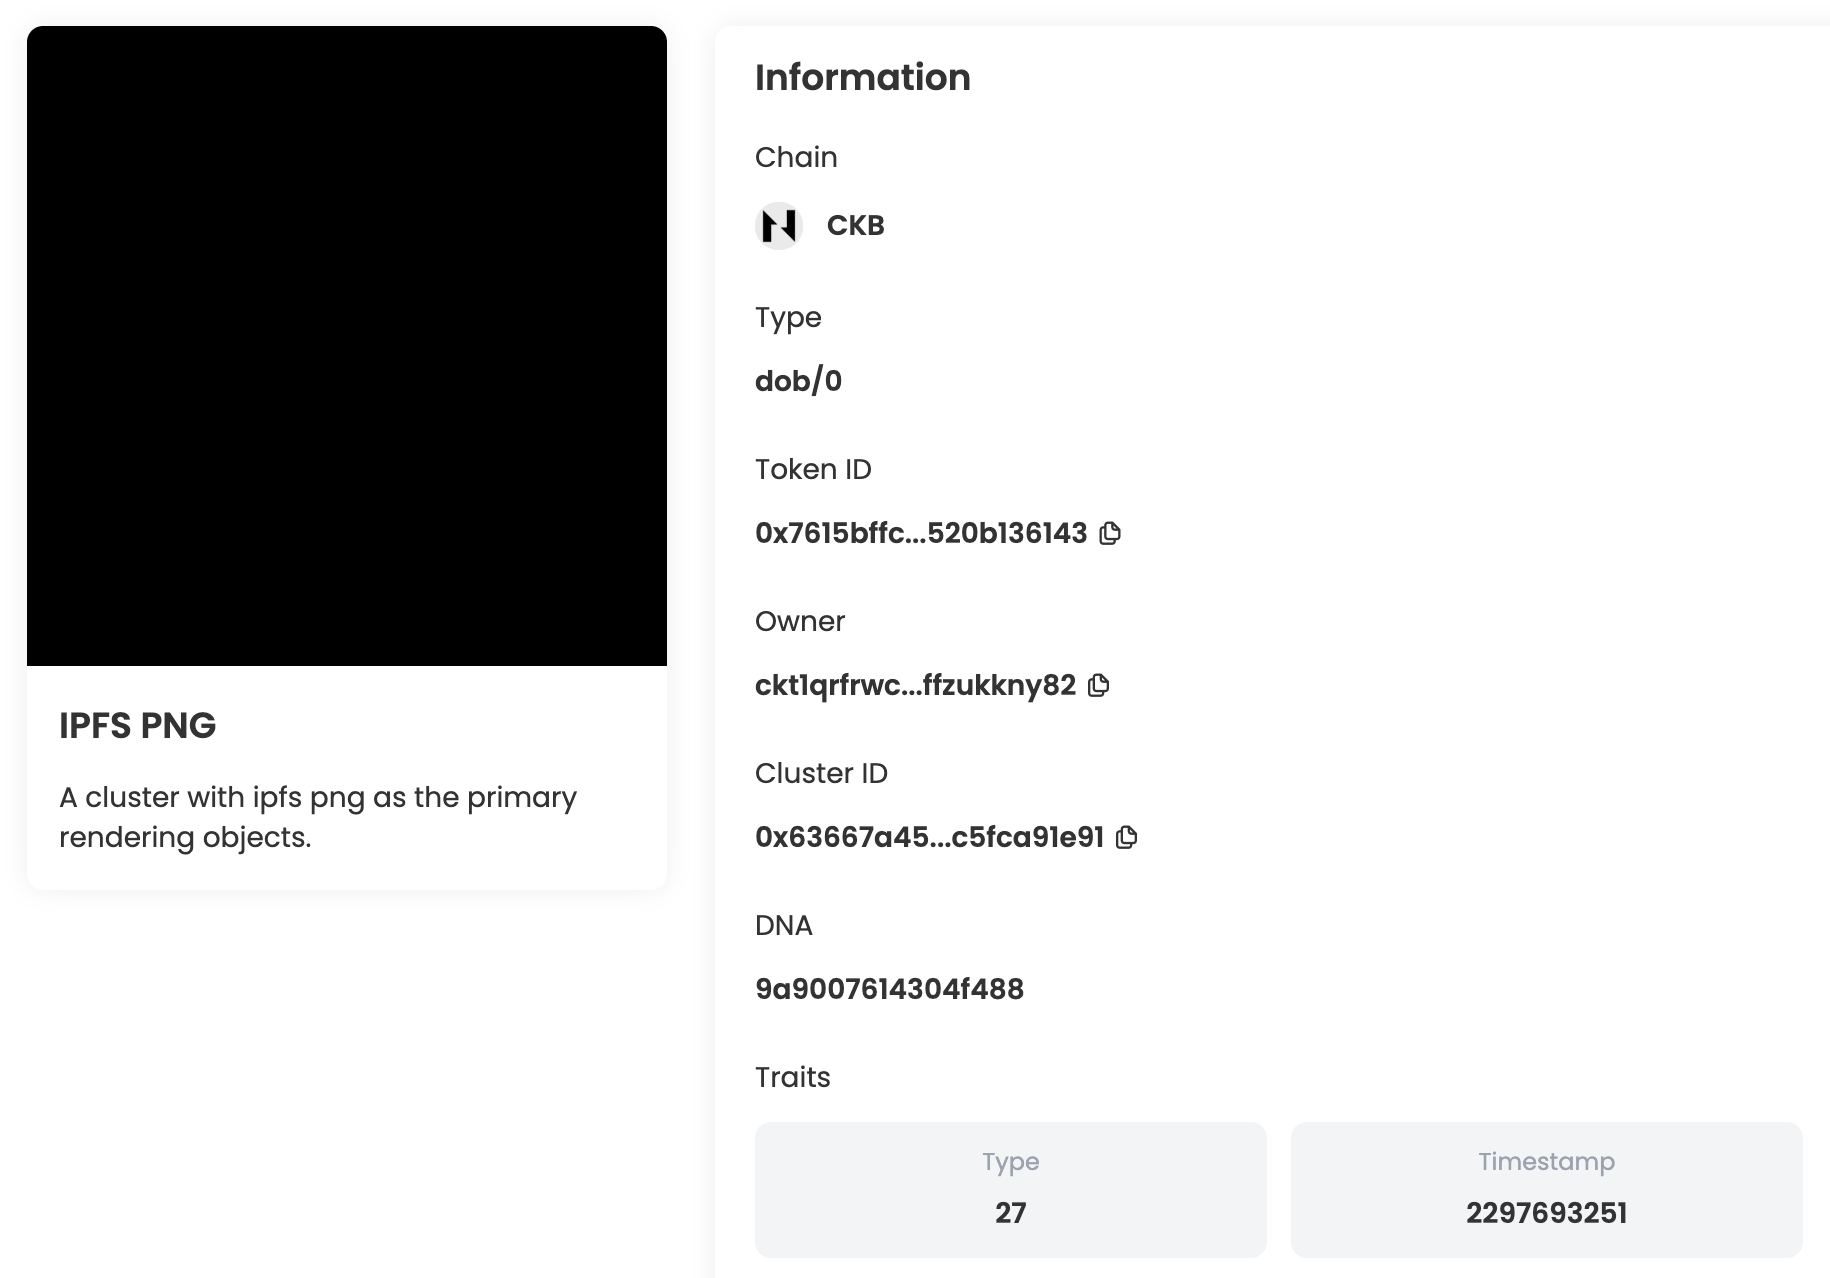
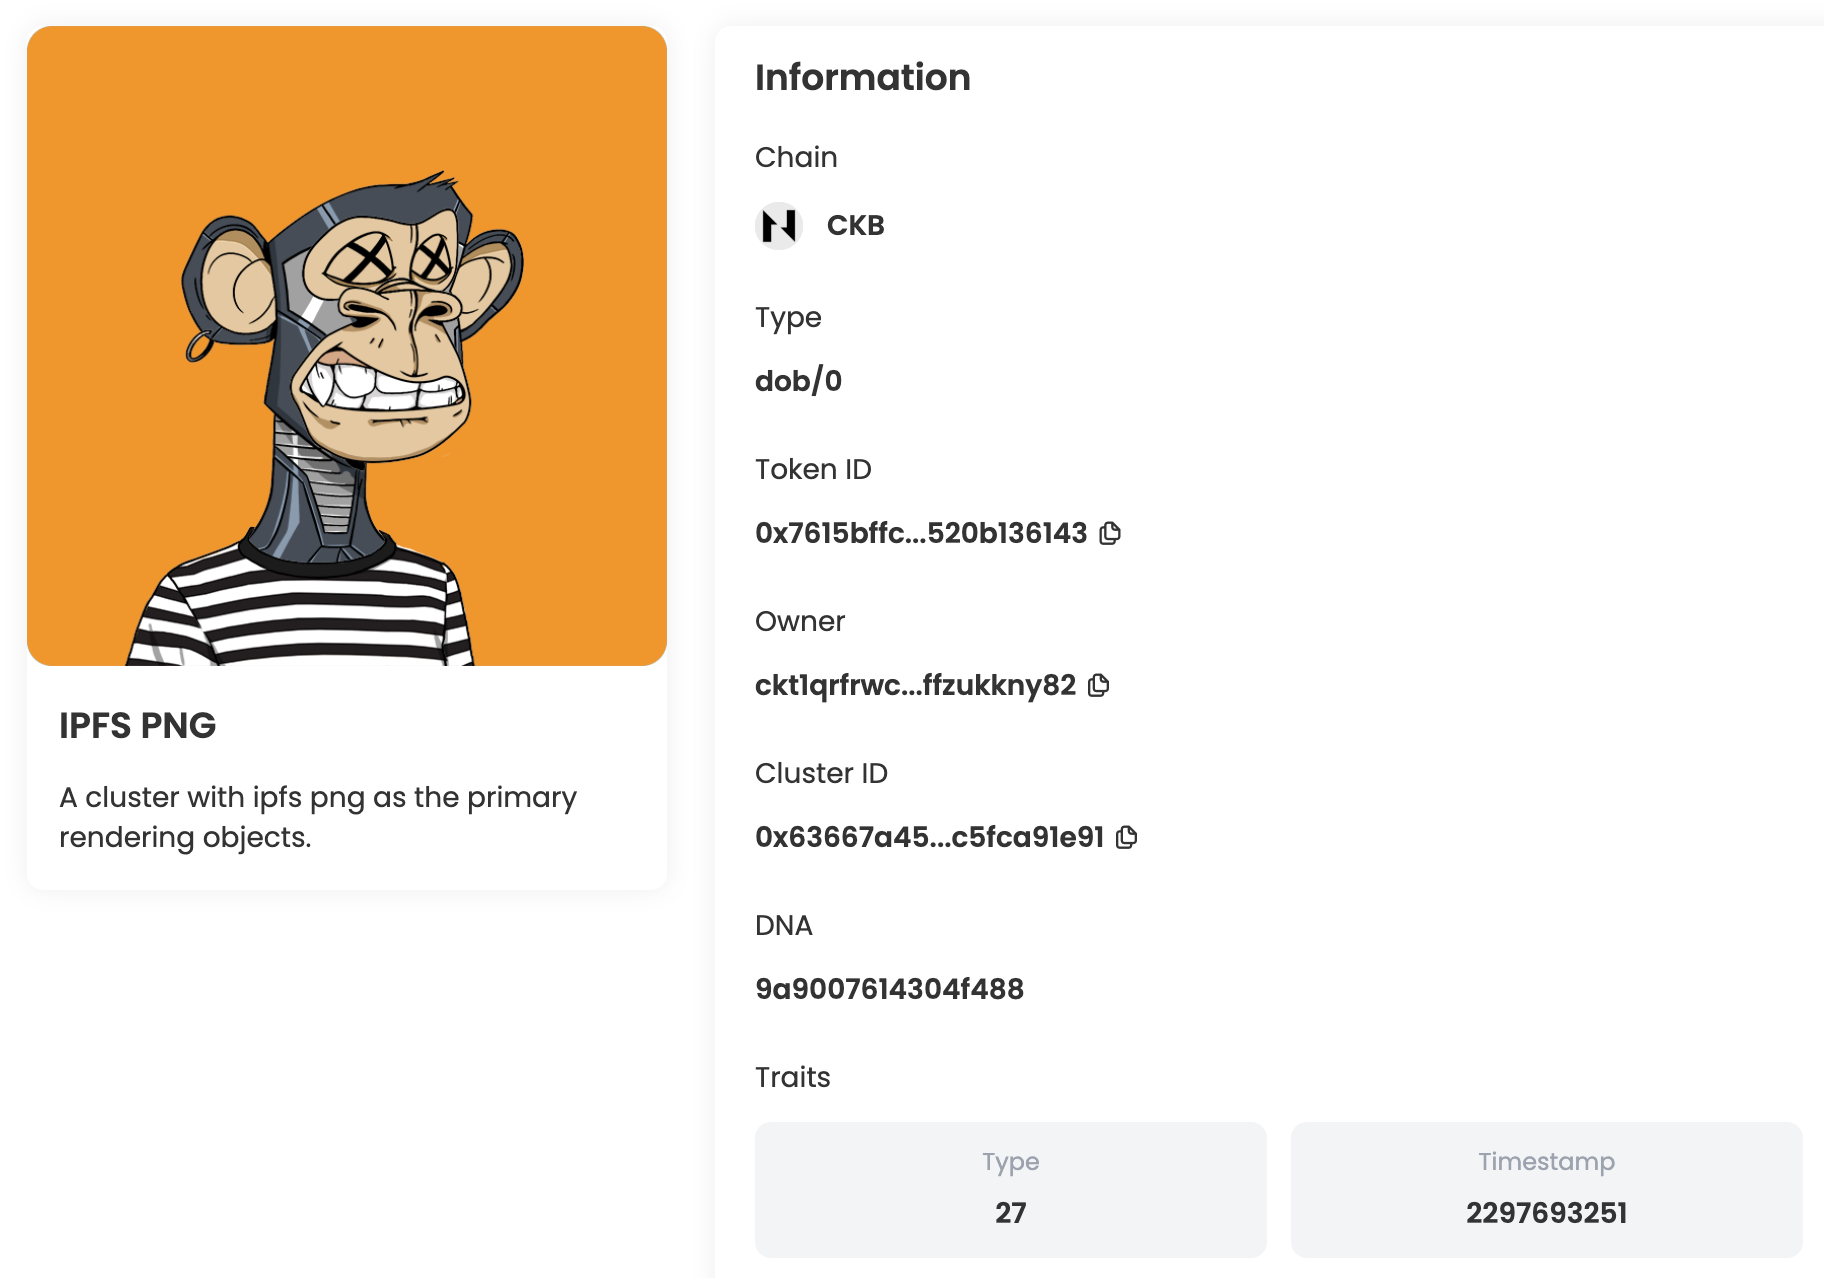
feat: add btcfs-i1-png dob0 example

diff --git a/examples/dob0/7.btcfs-i1-png.ts b/examples/dob0/7.btcfs-i1-png.ts
@@ -1,0 +1,195 @@
+import { ccc } from "@ckb-ccc/ccc";
+import { client, signer } from "@ckb-ccc/playground";
+
+function getExplorerTxUrl(txHash: string) {
+  const isMainnet = client.addressPrefix === 'ckb';
+  const baseUrl = isMainnet ? 'https://explorer.nervos.org' : 'https://testnet.explorer.nervos.org';
+
+  return `${baseUrl}/transaction/${txHash}`
+}
+
+function generateSimpleDNA(length: number): string {
+  return Array.from(
+    { length }, 
+    () => Math.floor(Math.random() * 16).toString(16)
+  ).join('');
+}
+
+/**
+ * Generate cluster description
+ */
+function generateClusterDescriptionUnderDobProtocol() {
+ 
+  const clusterDescription = "A cluster with btcfs i1 png as the primary rendering objects.";
+  
+  const dob0Pattern: ccc.spore.dob.PatternElementDob0[] = [
+    {
+      traitName: "prev.type",
+      dobType: "String",
+      dnaOffset: 0,
+      dnaLength: 1,
+      patternType: "options",
+      traitArgs: ['image'],
+    },
+    {
+      traitName: "prev.bg",
+      dobType: "String",
+      dnaOffset: 1,
+      dnaLength: 1,
+      patternType: "options",
+      traitArgs:[
+       "btcfs://3bb2e97555eb1c54f379bcac51a201a18882188fb4c5e7b3aeed566088172f01i1",
+      ],
+    },
+    {
+      traitName: "prev.bgcolor",
+      dobType: "String",
+      dnaOffset: 2,
+      dnaLength: 1,
+      patternType: "options",
+      traitArgs:[
+       "#C1C2C5",
+      ],
+    },
+    {
+      traitName: "Type",
+      dobType: "Number",
+      dnaOffset: 3,
+      dnaLength: 1,
+      patternType: "range",
+      traitArgs: [10, 50],
+    },
+    {
+      traitName: "Timestamp",
+      dobType: "Number",
+      dnaOffset: 4,
+      dnaLength: 4,
+      patternType: "rawNumber",
+    },
+  ];
+
+  const dob0: ccc.spore.dob.Dob0 = {
+    description: clusterDescription,
+    dob: {
+      ver: 0,
+      decoder: ccc.spore.dob.getDecoder(client, "dob0"),
+      pattern: dob0Pattern,
+    },
+  };
+
+  return ccc.spore.dob.encodeClusterDescriptionForDob0(dob0);
+}
+
+/**
+ * create cluster
+ */
+const { tx: clusterTx, id: clusterId } = await ccc.spore.createSporeCluster({
+  signer,
+  data: {
+    name: "BTCFS i1 PNG",
+    description: generateClusterDescriptionUnderDobProtocol(),
+  },
+});
+await clusterTx.completeFeeBy(signer, 2000n);
+const clusterTxHash = await signer.sendTransaction(clusterTx);
+console.log("Create cluster tx sent:", clusterTxHash, `Cluster ID: ${clusterId}`);
+await signer.client.waitTransaction(clusterTxHash);
+console.log("Create cluster tx committed:", getExplorerTxUrl(clusterTxHash), `Cluster ID: ${clusterId}`);
+
+/**
+ * create spore
+ */
[1 lines of base64/hex data omitted]
+const { tx: sporeTx, id: sporeId } = await ccc.spore.createSpore({
+  signer,
+  data: {
+    contentType: "dob/0",
+    content: ccc.bytesFrom(`{ "dna": "${generateSimpleDNA(16)}" }`, "utf8"),
+    clusterId: clusterId,
+  },
+  clusterMode: "clusterCell",
+});
+await sporeTx.completeFeeBy(signer, 2000n);
+const sporeTxHash = await signer.sendTransaction(sporeTx);
+console.log("Mint DOB tx sent:", sporeTxHash, `Spore ID: ${sporeId}`);
+await signer.client.waitTransaction(sporeTxHash);
+console.log("Mint DOB tx committed:", getExplorerTxUrl(sporeTxHash), `Spore ID: ${sporeId}`);
+
+
+/**
+ * The code below helps you to view the dob you just minted
+ */
+
+const getDobTypeHash = (sporeId: string, version?: ccc.spore.SporeVersion | ccc.spore.SporeVersion.V2 )  => {
+    const sporeScriptInfo = ccc.spore.getSporeScriptInfo(client, version)
+    const dobTypeScript = ccc.Script.from({
+        codeHash: sporeScriptInfo.codeHash,
+        hashType: sporeScriptInfo.hashType,
+        args: sporeId
+    })
+
+    return dobTypeScript.hash();
+}
+
+const getClusterTypeHash = (clusterId: string, version?: ccc.spore.SporeVersion | ccc.spore.SporeVersion.V2 )  => {
+    const clusterScriptInfo = ccc.spore.getClusterScriptInfo(client, version)
+    const clusterTypeScript = ccc.Script.from({
+        codeHash: clusterScriptInfo.codeHash,
+        hashType: clusterScriptInfo.hashType,
+        args: clusterId
+    })
+
+    return clusterTypeScript.hash();
+}
+
+enum PlatformSupportedDOB {
+  JOYID = "joyid",
+  CKBEXPLORER = "ckb explorer",
+  OMIGA = "omiga",
+  DOBBY = "dobby",
+  MOBIT = "mobit",
+}
+
+const viewDobUrl = (platform : PlatformSupportedDOB, clusterId: string, sporeId: string) => {
+    const isMainnet = client.addressPrefix === 'ckb';
+    let url = ''
+
+    switch (platform) {
+        case PlatformSupportedDOB.JOYID:
+            url = isMainnet 
+                ? `https://app.joy.id/nft/${sporeId.slice(2)}`
+                : `https://testnet.joyid.dev/nft/${sporeId.slice(2)}`;
+            break;
+        case PlatformSupportedDOB.OMIGA:
+            const sporeTypeHash = getDobTypeHash(sporeId);
+            url = isMainnet
+                ? `https://omiga.io/info/dobs/${sporeTypeHash}`
+                : `https://test.omiga.io/info/dobs/${sporeTypeHash}`;
+            break;
+        case PlatformSupportedDOB.CKBEXPLORER:
+            const clusterTypeHash = getClusterTypeHash(clusterId);
+            url = isMainnet
+                ? `https://explorer.nervos.org/nft-info/${clusterTypeHash}/${sporeId}`
+                : `https://testnet.explorer.nervos.org/nft-info/${clusterTypeHash}/${sporeId}`;
+            break;
+        case PlatformSupportedDOB.DOBBY:
+            url = isMainnet
+                ? `https://app.dobby.market/item-detail_ckb/${sporeId}`
+                : `https://test-dobby.entrust3.com/item-detail_ckb/${sporeId}`;
+            break;
+        case PlatformSupportedDOB.MOBIT:
+            url = isMainnet
+                ? `https://mobit.app/dob/${sporeId.slice(2)}?chain=ckb`
+                : `https://mobit.app/dob/${sporeId.slice(2)}?chain=ckb`;
+            break;
+        default:
+            throw new Error(`Unsupported platform: ${platform}`);
+    }
+    
+    return url;
+}
+
+console.log('Now you can view the dob on JoyId, Omiga, CKB Explorer, Mobit, Dobby...');
+Object.values(PlatformSupportedDOB).forEach(platform => {
+    console.log(`View on ${platform}: 👉🔗`, viewDobUrl(platform, clusterId, sporeId));
+});

diff --git a/examples/dob0/7.btcfs-i1-png.md b/examples/dob0/7.btcfs-i1-png.md
@@ -1,12 +1,12 @@
 ## Intro
 
-This example demonstrates how to create a DOB based on the DOB/0 protocol, using `btcfs://{BTCTX_ID}i0` svg image links as the primary rendering objects. You can view the DOB on JoyID, Omiga, CKB Explorer, Mobit, Dobby. 
+This example demonstrates how to create a DOB based on the DOB/0 protocol, using `btcfs://{BTCTX_ID}i1` png image links as the primary rendering objects. You can view the DOB on JoyID, Omiga, CKB Explorer, Mobit, Dobby. 
 
 <div align="center">
-  <img src="../assets/images/dob0/6.btcfs-i0-svg-joyid.svg" height="300">
+  <img src="../assets/images/dob0/7.btcfs-i1-png-joyid.svg" height="300">
 </div>
 
-## [Code](./6.btcfs-i0-svg.ts)
+## [Code](./7.btcfs-i1-png.ts)
 
 ```typescript
 import { ccc } from "@ckb-ccc/ccc";
@@ -31,7 +31,7 @@ function generateSimpleDNA(length: number): string {
  */
 function generateClusterDescriptionUnderDobProtocol() {
  
-  const clusterDescription = "A cluster with btcfs i0 svg as the primary rendering objects.";
+  const clusterDescription = "A cluster with btcfs i1 png as the primary rendering objects.";
   
   const dob0Pattern: ccc.spore.dob.PatternElementDob0[] = [
     {
@@ -49,7 +49,7 @@ function generateClusterDescriptionUnderDobProtocol() {
       dnaLength: 1,
       patternType: "options",
       traitArgs:[
-       "btcfs://8ca2da44996f5a06ad44b5bb87fd9acb71390b6c0cb1910c10b0deb8daad7f82i0",
+       "btcfs://3bb2e97555eb1c54f379bcac51a201a18882188fb4c5e7b3aeed566088172f01i1",
       ],
     },
     {
@@ -59,7 +59,7 @@ function generateClusterDescriptionUnderDobProtocol() {
       dnaLength: 1,
       patternType: "options",
       traitArgs:[
-       "#FFC103",
+       "#C1C2C5",
       ],
     },
     {
@@ -97,7 +97,7 @@ function generateClusterDescriptionUnderDobProtocol() {
 const { tx: clusterTx, id: clusterId } = await ccc.spore.createSporeCluster({
   signer,
   data: {
-    name: "BTCFS i0 SVG",
+    name: "BTCFS i1 PNG",
     description: generateClusterDescriptionUnderDobProtocol(),
   },
 });
@@ -110,7 +110,7 @@ console.log("Create cluster tx committed:", getExplorerTxUrl(clusterTxHash), `Cl
 /**
  * create spore
  */
[2 lines of base64/hex data omitted]
 const { tx: sporeTx, id: sporeId } = await ccc.spore.createSpore({
   signer,
   data: {
@@ -136,13 +136,13 @@ You can also open and edit the code online in [ccc-playground](https://live.ckbc
 ## On-chain test cluster and DOB
 
 ### Testnet
-- 👉[🔗 createCluster tx](https://testnet.explorer.nervos.org/transaction/0x17e720fd2af095f6a1d1264ca5aacff3edd9a22adf4410ee6ab2138cd3ac9221)
[2 lines of base64/hex data omitted]
+- 👉[🔗 createCluster tx](https://testnet.explorer.nervos.org/transaction/0x273aa105cfb4587d3ae6f98e3e7f47d79342c0d5d001bd5f7ae50114a8153899)
[2 lines of base64/hex data omitted]
 
-- 👉[🔗 mintSpore tx](https://testnet.explorer.nervos.org/transaction/0xf34375fdf5c6d825c2193b477491cf78bb31a4698246f4087abdc9fa4d890d00)
[2 lines of base64/hex data omitted]
+- 👉[🔗 mintSpore tx](https://testnet.explorer.nervos.org/transaction/0xeca8e2b3bf82f12edd753fe659686dd8231310e81f0120334e61985c6adf7d3c)
[2 lines of base64/hex data omitted]
 
 ### Mainnet
   Todo.
@@ -152,30 +152,30 @@ You can also open and edit the code online in [ccc-playground](https://live.ckbc
 ### JoyID
 
 <div align="center">
-  <img src="../assets/images/dob0/6.btcfs-i0-svg-joyid.svg" height="300">
+  <img src="../assets/images/dob0/7.btcfs-i1-png-joyid.svg" height="300">
 </div>
 
-[View on JoyID](https://testnet.joyid.dev/nft/31c8dadf534de9c64e7474765a390e63aa0c37ade19c43414466c2f1e3f71a02) 
+[View on JoyID](https://testnet.joyid.dev/nft/5e5352633c39eb83c1c50dcd3efccc895628e6020b0d4d2b8ab5501a8380ad3e) 
 
 ### Omiga
 
-![6.btcfs-i0-svg-omiga.png](../assets/images/dob0/6.btcfs-i0-svg-omiga.png)
+![7.btcfs-i1-png-omiga.png](../assets/images/dob0/7.btcfs-i1-png-omiga.png)
 
-[View on Omiga](https://test.omiga.io/info/dobs/0x21bc2cc9c5c90f4952746ce0025a84b66ea6a13710bb4dddeb3fa64551372874) 
+[View on Omiga](https://test.omiga.io/info/dobs/0x4b65c72e5eb6964744024d150ddf060c31443c46dfbd5885890a710f6213e2c2) 
 
 ### Mobit
 
-![6.btcfs-i0-svg-mobit.png](../assets/images/dob0/6.btcfs-i0-svg-mobit.png)
+![7.btcfs-i1-png-mobit.png](../assets/images/dob0/7.btcfs-i1-png-mobit.png)
 
-[View on mobit](https://mobit.app/dob/31c8dadf534de9c64e7474765a390e63aa0c37ade19c43414466c2f1e3f71a02?chain=ckb)
+[View on mobit](https://mobit.app/dob/5e5352633c39eb83c1c50dcd3efccc895628e6020b0d4d2b8ab5501a8380ad3e?chain=ckb)
 
 ### Dobby
-![6.btcfs-i0-svg-dobby.png](../assets/images/dob0/6.btcfs-i0-svg-dobby.png)
-[View on Dobby](https://test-dobby.entrust3.com/item-detail_ckb/0x31c8dadf534de9c64e7474765a390e63aa0c37ade19c43414466c2f1e3f71a02) 
+![7.btcfs-i1-png-dobby.png](../assets/images/dob0/7.btcfs-i1-png-dobby.png)
+[View on Dobby](https://test-dobby.entrust3.com/item-detail_ckb/0x5e5352633c39eb83c1c50dcd3efccc895628e6020b0d4d2b8ab5501a8380ad3e) 
 
 ### Explorer
-![6.btcfs-i0-svg-explorer.png](../assets/images/dob0/6.btcfs-i0-svg-explorer.png)
-[View on CKB Explorer](https://testnet.explorer.nervos.org/nft-info/0xfb54bf0dd2e6e0afad1b1cab49f83645c69d066d9b6554984ce573ecd640835d/0x31c8dadf534de9c64e7474765a390e63aa0c37ade19c43414466c2f1e3f71a02) 
+![7.btcfs-i1-png-explorer.png](../assets/images/dob0/7.btcfs-i1-png-explorer.png)
+[View on CKB Explorer](https://testnet.explorer.nervos.org/nft-info/0x7af6cf32930d8489abbdf18969fd98a7801c847f998ed6ea3bc6f2bfc052ef1e/0x5e5352633c39eb83c1c50dcd3efccc895628e6020b0d4d2b8ab5501a8380ad3e) 
 
 
 ## Compatibility

diff --git a/examples/dob0/4.ipfs-png.md b/examples/dob0/4.ipfs-png.md
@@ -170,5 +170,5 @@ You can also open and edit the code online in [ccc-playground](https://live.ckbc
 ## Compatibility
 |         | JoyID | Omiga | CKB Explorer | Mobit | Dobby |
 | ------- | ----- | ----- | ------------ | ----- | ----- |
-| Testnet | ✅    | ✅     | ✅           | ❌     | ❌    |
+| Testnet | ✅    | ✅     | ✅           | ✅     | ❌    |
 | Mainnet |     |     |           |    |     |

diff --git a/examples/dob0/5.regular-link-svg.md b/examples/dob0/5.regular-link-svg.md
@@ -174,5 +174,5 @@ You can also open and edit the code online in [ccc-playground](https://live.ckbc
 ## Compatibility
 |         | JoyID | Omiga | CKB Explorer | Mobit | Dobby |
 | ------- | ----- | ----- | ------------ | ----- | ----- |
-| Testnet | ✅    | ✅     | ✅           | ❌     | ❌    |
+| Testnet | ✅    | ✅     | ✅           | ✅     | ❌    |
 | Mainnet |     |     |           |    |     |

diff --git a/examples/dob0/7.ipfs-svg.md b/examples/dob0/7.ipfs-svg.md
@@ -1,0 +1,1 @@
+Coming soon.
